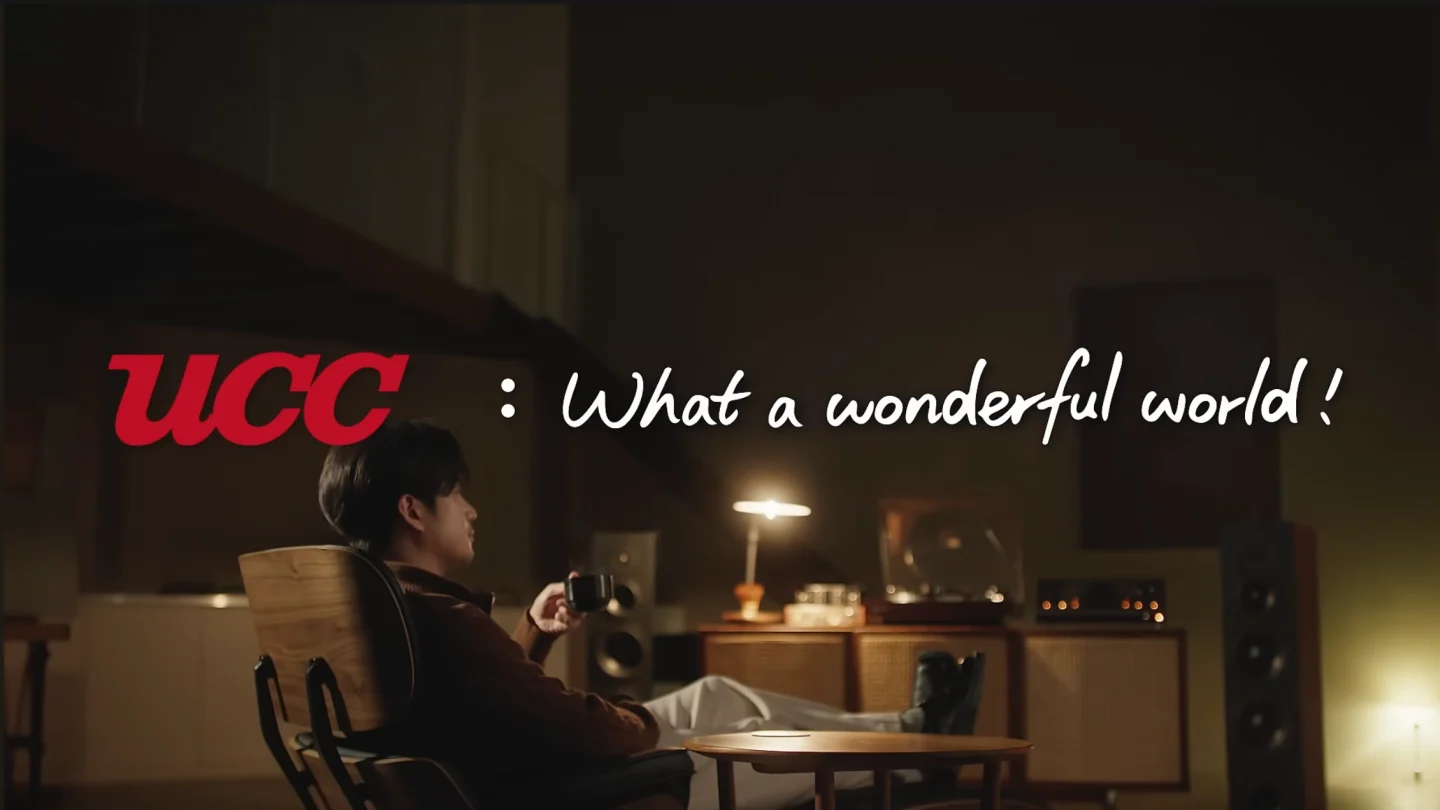
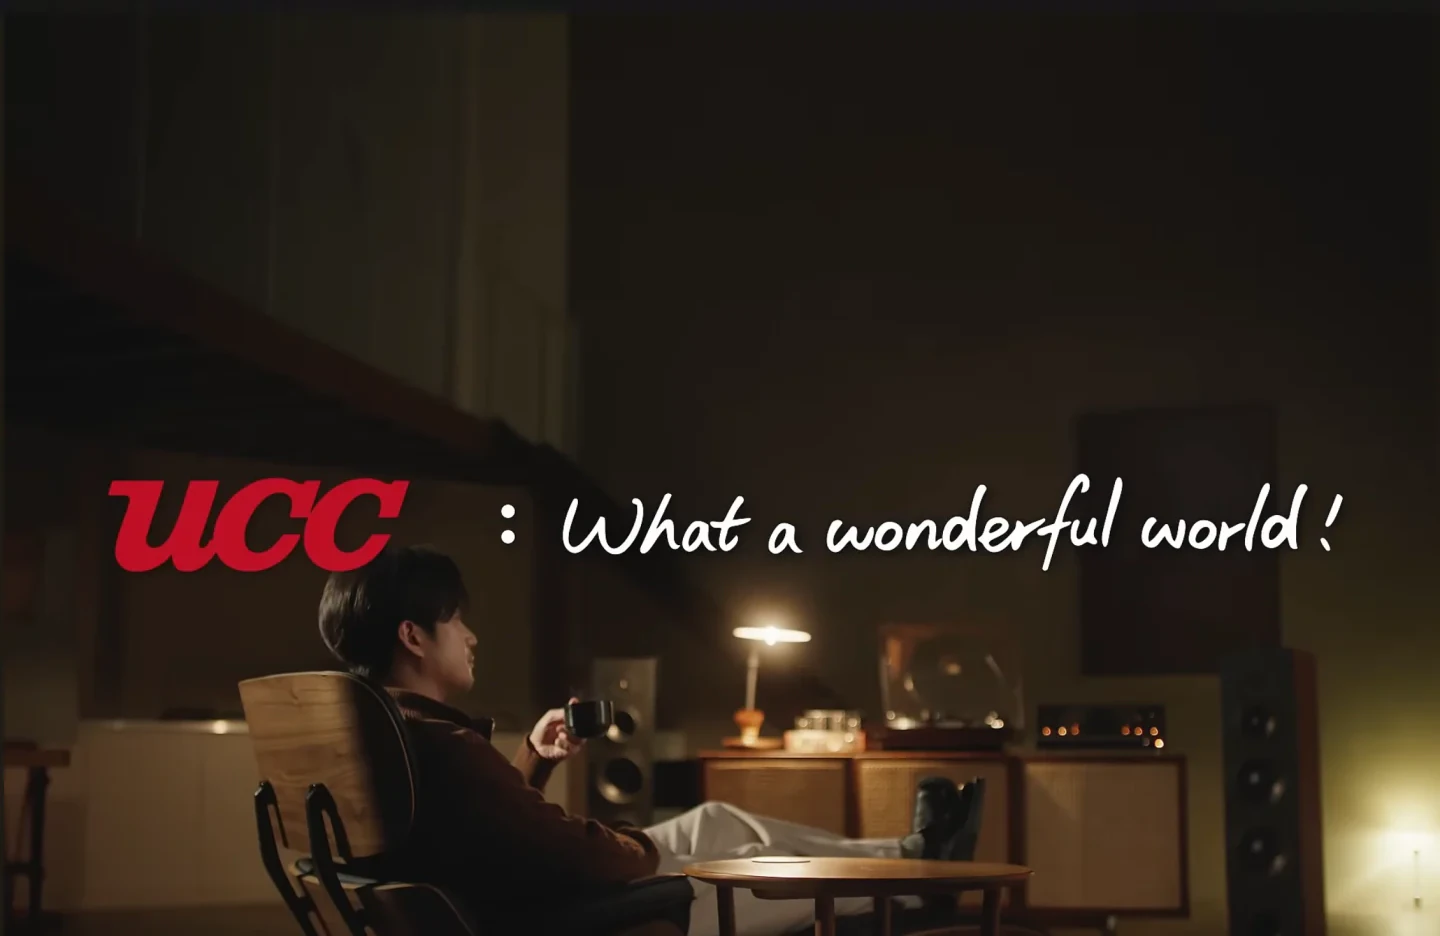
feat: 完成 UCC 大卡與剩餘 8 張小卡零切字構圖、消除 iOS 點擊閃灰及肖像預載優化

diff --git a/src/data/portfolio.js b/src/data/portfolio.js
@@ -30,6 +30,7 @@ export const categories = [
         "name": "UCC",
         "bgImage": "/vfx/A/A-004.webp",
         "url": "https://www.youtube.com/watch?v=AuuxyMIutf8",
+        "imagePosition": "50% 82%",
         "featured": true
       },
       {
@@ -88,7 +89,8 @@ export const categories = [
       {
         "name": "每朝双纖綠茶",
         "bgImage": "/vfx/A/A-008.webp",
-        "url": "https://www.youtube.com/watch?v=w1EUT4JnHck"
+        "url": "https://www.youtube.com/watch?v=w1EUT4JnHck",
+        "imagePosition": "88% 50%"
       },
       {
         "name": "每朝健康",
@@ -189,14 +191,16 @@ export const categories = [
       {
         "name": "Panasonic 溫水洗淨便座",
         "bgImage": "/vfx/B/B-01.webp",
-        "url": "https://www.youtube.com/watch?v=SMCldr-5kbg"
+        "url": "https://www.youtube.com/watch?v=SMCldr-5kbg",
+        "imagePosition": "16% 50%"
       },
       {
         "name": "Panasonic 蒸氣電熨斗",
         "bgImage": "/vfx/B/B-03.webp",
         "url": "https://www.facebook.com/watch/?v=844958797010401",
         "videoId": "844958797010401",
-        "isFacebook": true
+        "isFacebook": true,
+        "imagePosition": "15% 50%"
       },
       {
         "name": "Panasonic W音波電動牙刷",
@@ -225,7 +229,7 @@ export const categories = [
         "url": "https://www.facebook.com/watch/?v=558217842125093",
         "videoId": "558217842125093",
         "isFacebook": true,
-        "imagePosition": "50% 28%"
+        "imagePosition": "50% 8%"
       },
       {
         "name": "Samsung Z Fold4 / Z Flip4",
@@ -320,7 +324,8 @@ export const categories = [
       {
         "name": "長榮航太",
         "bgImage": "/vfx/C/C-12.webp",
-        "url": "https://www.youtube.com/watch?v=yuUHorteLAw"
+        "url": "https://www.youtube.com/watch?v=yuUHorteLAw",
+        "imagePosition": "10% 50%"
       }
     ]
   },
@@ -507,7 +512,8 @@ export const categories = [
       },
       {
         "name": "台灣武田合利他命 A25",
-        "bgImage": "/vfx/E/E-15_alinamin.webp"
+        "bgImage": "/vfx/E/E-15_alinamin.webp",
+        "imagePosition": "10% 50%"
       }
     ]
   },
@@ -570,7 +576,8 @@ export const categories = [
       },
       {
         "name": "臺灣證券交易所",
-        "bgImage": "/vfx/F/F-10_twse.webp"
+        "bgImage": "/vfx/F/F-10_twse.webp",
+        "imagePosition": "50% 16%"
       }
     ]
   }

diff --git a/src/components/Introduction.jsx b/src/components/Introduction.jsx
@@ -47,7 +47,6 @@ export default function Introduction({ onPlayVideo }) {
                 width="768"
                 height="1024"
                 sizes="(max-width: 639px) 260px, (max-width: 767px) 320px, (max-width: 1023px) 40vw, 384px"
-                loading="lazy"
                 decoding="async"
                 className="w-full h-full object-cover contrast-[1.03] transition-transform duration-700 ease-out group-hover:scale-[1.03]"
               />

diff --git a/src/components/VisualSynthesis.jsx b/src/components/VisualSynthesis.jsx
@@ -159,7 +159,7 @@ const CAPTION_VARIANTS = {
   },
 };
 
-const VFX_ASSET_VERSION = 'v6';
+const VFX_ASSET_VERSION = 'v7';
 
 const getDisplayImageUrl = (item) => {
   if (!item?.bgImage) return null;

diff --git a/src/index.css b/src/index.css
@@ -52,6 +52,7 @@
 html {
   scrollbar-width: thin;
   scrollbar-color: rgba(235, 74, 46, 0.35) #030407;
+  -webkit-tap-highlight-color: transparent;
 }
 
 body {

diff --git a/PROJECT_NOTES.md b/PROJECT_NOTES.md
@@ -322,4 +322,8 @@
     - **直式與 4:3 劇照構圖對位**：為 `Samsung Z Fold3 / Z Flip3`（`50% 28%`）、`蕾妮亞`（`50% 24%`）、`Bifesta 碧菲絲特`（`50% 38%`）補齊垂直焦點定位，消除預設居中裁切造成的切額頭與切標題問題。
     - **小卡遮幅黑邊裁除與滿框齊平**：裁除 `Audi`（`C-01.webp` 頂部 42px 單側黑邊）、`桂格`（`A-018.webp`）、`Gogoro Pulse`（`C-04.webp`，搭配 `20% 50%` 完整保留左上 Logo 與翹孤輪騎士）及 `瑞穗鮮乳`（`A-023.webp`，搭配 `22% 50%`）之遮幅黑邊，並將 `VFX_ASSET_VERSION` 升至 `v6`。
     - **同品牌多支作品篇名區隔、外連標示與 CSP 相容**：為「生活與百貨」與「金融與保險」重複同名之 `新光三越`（×4）、`東和鋼鐵`（×3）、`HOLA`（×2）、`台灣Pay`（×2）補上官方篇名副標達成全站同分類零撞名；`Manifesto.jsx` 外部社群案例補齊右上 `ArrowUpRight` 圖示並將 `Autodesk Flame` 升級為原生 `<button>`；移除 `index.html` 字體 `<link onload>` 行內腳本並清理 `vercel.json` 廢棄網域。
+  - **第十二輪 97 張卡片總覽圖逐格審片收官：首類大卡 `UCC` 與剩餘 8 張小卡零切字、iOS 點擊閃灰消除與肖像預載（`A-004.webp`、`D-07.webp`、`portfolio.js`、`VisualSynthesis.jsx`、`index.css`、`Introduction.jsx`）**：
+    - 對 `UCC`（`A-004.webp`）上方純暗部天花板與 `五月花極上系列`（`D-07.webp`）底部純灰地面進行 C1 平滑延展（主體與文字 `1:1` 零變形），使桌機 `2×2` 大卡與 `16:9` 小卡左右文字 `100%` 完整入鏡，並將 `VFX_ASSET_VERSION` 升至 `v7`。
+    - 為 `每朝双纖綠茶`（`88% 50%`）、`Panasonic 溫水洗淨便座`（`16% 50%`）、`Panasonic 蒸氣電熨斗`（`15% 50%`）、`Samsung Z Fold3 / Z Flip3`（`50% 8%`）、`長榮航太`（`10% 50%`）、`台灣武田合利他命 A25`（`10% 50%`）、`臺灣證券交易所`（`50% 16%`）補齊精準 `imagePosition`，達成全站 97 張作品零切字、零切頭。
+    - 於 `index.css` `html` 補齊 `-webkit-tap-highlight-color: transparent` 消除 iOS Safari 點擊灰框，並移除 `Introduction.jsx` 個人肖像之 `loading="lazy"` 確保 `1.5s` 自動推進下滑時 `0ms` 穩定顯現。
 
